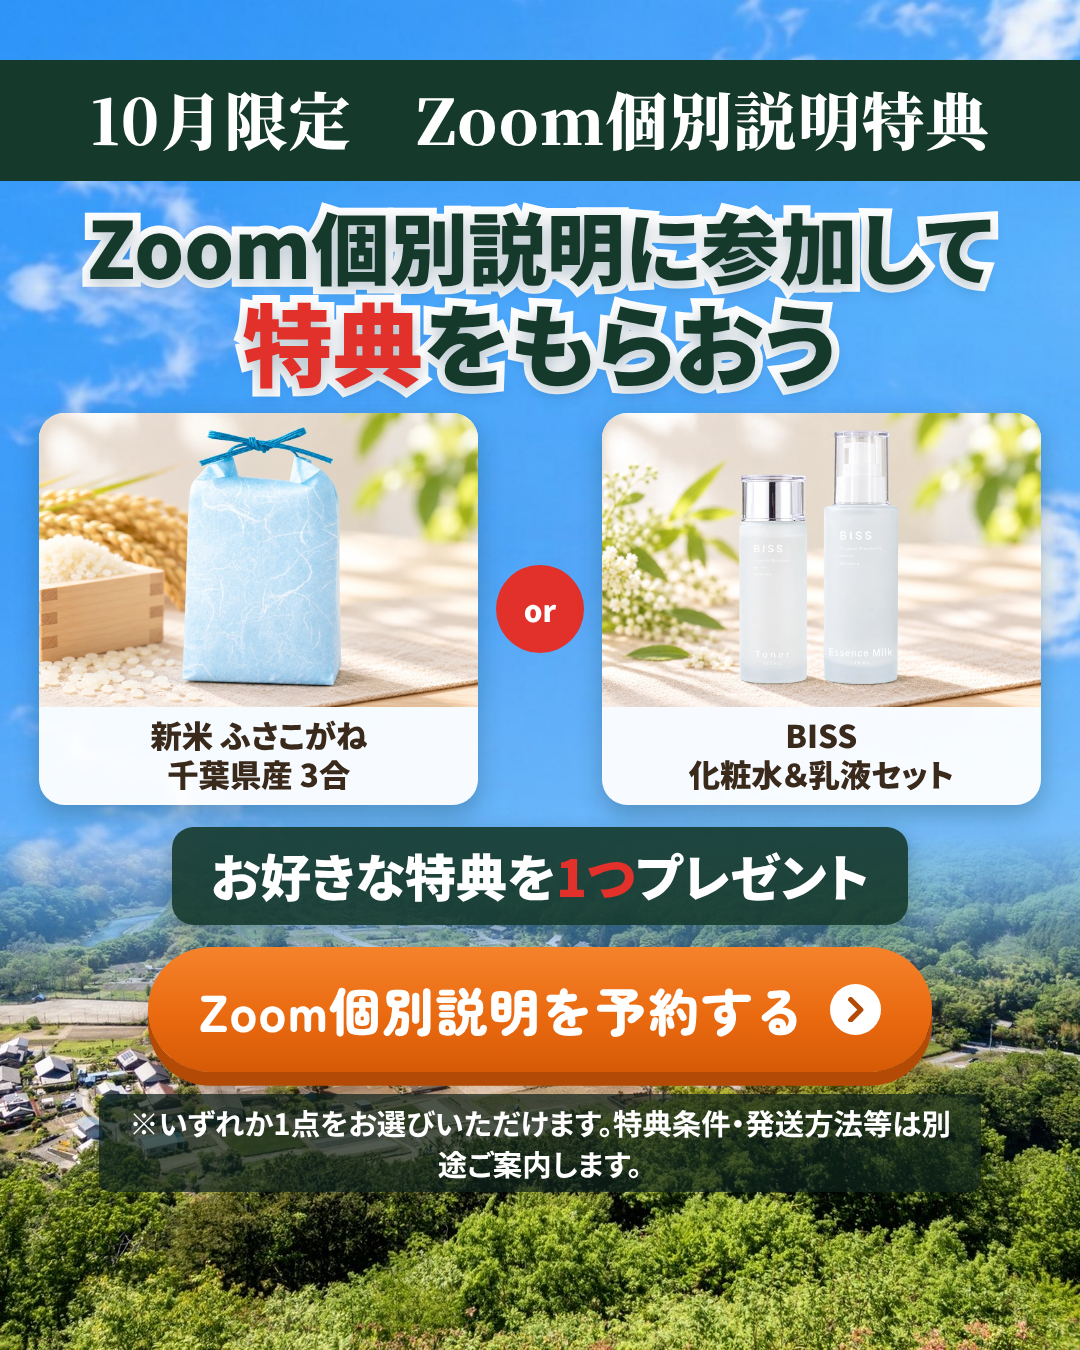
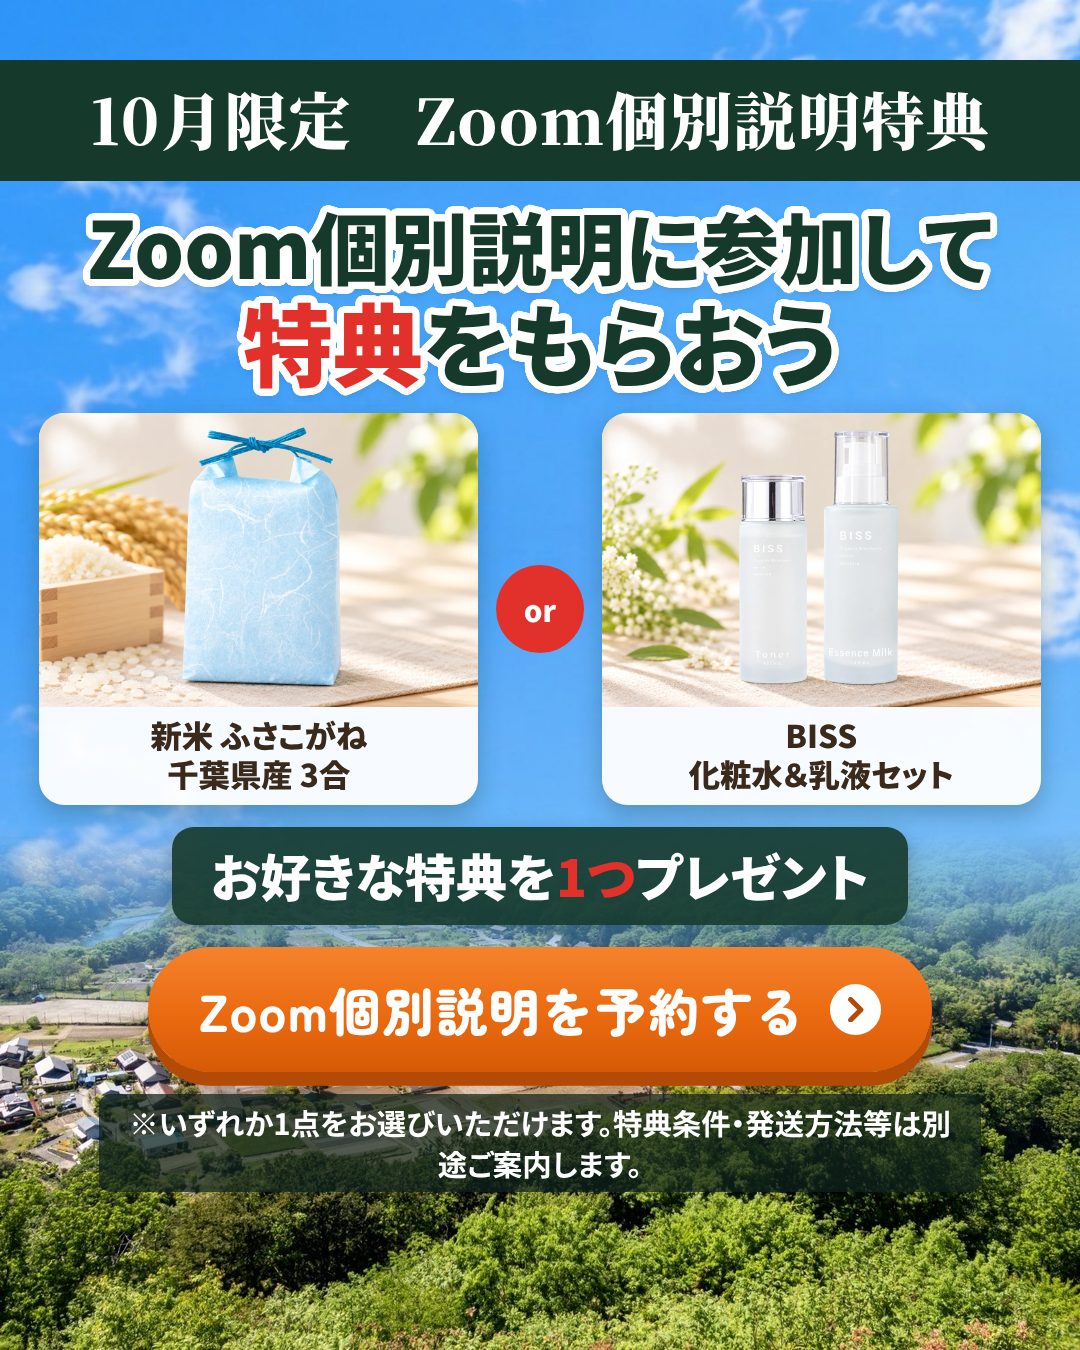
fix: 文字の縁取りを円形に変更（角のカクつき解消）、ドーン/バン等の効果音を追加
Claude-Session: https://claude.ai/code/session_01P3SyrgKkzVaKXZHt8wAsTA

Changed region(s): [[0.0917, 0.1556, 0.9167, 0.3111]]

diff --git a/ads/blueberry-reel/template/ad.css b/ads/blueberry-reel/template/ad.css
@@ -10,7 +10,7 @@
   .chip { display: flex; align-items: center; gap: 12px; font-family: 'Noto Sans JP', sans-serif; font-weight: 900; font-size: 38px; color: var(--navy); white-space: nowrap; padding-bottom: 10px; border-bottom: 5px solid var(--red); }
   .chip .ci { width: 66px; height: 66px; border-radius: 50%; background: var(--navy); display: flex; align-items: center; justify-content: center; flex: 0 0 66px; }
   .chip .ci.g { background: #1f7a3c; }
-  .glow { -webkit-text-stroke: 16px #fff; paint-order: stroke fill; text-shadow: 0 6px 16px rgba(0,50,80,.30); }
+  .glow { text-shadow: 0.075em 0.000em 0 #fff,0.075em 0.007em 0 #fff,0.074em 0.015em 0 #fff,0.072em 0.022em 0 #fff,0.069em 0.029em 0 #fff,0.066em 0.035em 0 #fff,0.062em 0.042em 0 #fff,0.058em 0.048em 0 #fff,0.053em 0.053em 0 #fff,0.048em 0.058em 0 #fff,0.042em 0.062em 0 #fff,0.035em 0.066em 0 #fff,0.029em 0.069em 0 #fff,0.022em 0.072em 0 #fff,0.015em 0.074em 0 #fff,0.007em 0.075em 0 #fff,0.000em 0.075em 0 #fff,-0.007em 0.075em 0 #fff,-0.015em 0.074em 0 #fff,-0.022em 0.072em 0 #fff,-0.029em 0.069em 0 #fff,-0.035em 0.066em 0 #fff,-0.042em 0.062em 0 #fff,-0.048em 0.058em 0 #fff,-0.053em 0.053em 0 #fff,-0.058em 0.048em 0 #fff,-0.062em 0.042em 0 #fff,-0.066em 0.035em 0 #fff,-0.069em 0.029em 0 #fff,-0.072em 0.022em 0 #fff,-0.074em 0.015em 0 #fff,-0.075em 0.007em 0 #fff,-0.075em 0.000em 0 #fff,-0.075em -0.007em 0 #fff,-0.074em -0.015em 0 #fff,-0.072em -0.022em 0 #fff,-0.069em -0.029em 0 #fff,-0.066em -0.035em 0 #fff,-0.062em -0.042em 0 #fff,-0.058em -0.048em 0 #fff,-0.053em -0.053em 0 #fff,-0.048em -0.058em 0 #fff,-0.042em -0.062em 0 #fff,-0.035em -0.066em 0 #fff,-0.029em -0.069em 0 #fff,-0.022em -0.072em 0 #fff,-0.015em -0.074em 0 #fff,-0.007em -0.075em 0 #fff,-0.000em -0.075em 0 #fff,0.007em -0.075em 0 #fff,0.015em -0.074em 0 #fff,0.022em -0.072em 0 #fff,0.029em -0.069em 0 #fff,0.035em -0.066em 0 #fff,0.042em -0.062em 0 #fff,0.048em -0.058em 0 #fff,0.053em -0.053em 0 #fff,0.058em -0.048em 0 #fff,0.062em -0.042em 0 #fff,0.066em -0.035em 0 #fff,0.069em -0.029em 0 #fff,0.072em -0.022em 0 #fff,0.074em -0.015em 0 #fff,0.075em -0.007em 0 #fff,0.041em 0.004em 0 #fff,0.039em 0.012em 0 #fff,0.036em 0.019em 0 #fff,0.032em 0.026em 0 #fff,0.026em 0.032em 0 #fff,0.019em 0.036em 0 #fff,0.012em 0.039em 0 #fff,0.004em 0.041em 0 #fff,-0.004em 0.041em 0 #fff,-0.012em 0.039em 0 #fff,-0.019em 0.036em 0 #fff,-0.026em 0.032em 0 #fff,-0.032em 0.026em 0 #fff,-0.036em 0.019em 0 #fff,-0.039em 0.012em 0 #fff,-0.041em 0.004em 0 #fff,-0.041em -0.004em 0 #fff,-0.039em -0.012em 0 #fff,-0.036em -0.019em 0 #fff,-0.032em -0.026em 0 #fff,-0.026em -0.032em 0 #fff,-0.019em -0.036em 0 #fff,-0.012em -0.039em 0 #fff,-0.004em -0.041em 0 #fff,0.004em -0.041em 0 #fff,0.012em -0.039em 0 #fff,0.019em -0.036em 0 #fff,0.026em -0.032em 0 #fff,0.032em -0.026em 0 #fff,0.036em -0.019em 0 #fff,0.039em -0.012em 0 #fff,0.041em -0.004em 0 #fff, 0 0.05em 0.14em rgba(0,50,80,.35); }
   .big { text-align: center; font-weight: 900; line-height: 1.12; color: var(--dg); font-size: 138px; font-family: 'Noto Sans JP', sans-serif; padding: 0 40px; }
   .big.m { font-size: 112px; } .big.s { font-size: 92px; }
   .big .ln { display: block; white-space: nowrap; }
@@ -37,7 +37,7 @@
   .gcard .gphoto { width: 100%; height: 300px; background-size: cover; margin-bottom: 8px; }
 
   .big.xl { font-size: 190px; line-height: 1.06; }
-  .big.xl.glow { -webkit-text-stroke: 24px #fff; }
+  .big.xl.glow { text-shadow: 0.062em 0.000em 0 #fff,0.062em 0.006em 0 #fff,0.061em 0.012em 0 #fff,0.059em 0.018em 0 #fff,0.057em 0.024em 0 #fff,0.055em 0.029em 0 #fff,0.052em 0.034em 0 #fff,0.048em 0.039em 0 #fff,0.044em 0.044em 0 #fff,0.039em 0.048em 0 #fff,0.034em 0.052em 0 #fff,0.029em 0.055em 0 #fff,0.024em 0.057em 0 #fff,0.018em 0.059em 0 #fff,0.012em 0.061em 0 #fff,0.006em 0.062em 0 #fff,0.000em 0.062em 0 #fff,-0.006em 0.062em 0 #fff,-0.012em 0.061em 0 #fff,-0.018em 0.059em 0 #fff,-0.024em 0.057em 0 #fff,-0.029em 0.055em 0 #fff,-0.034em 0.052em 0 #fff,-0.039em 0.048em 0 #fff,-0.044em 0.044em 0 #fff,-0.048em 0.039em 0 #fff,-0.052em 0.034em 0 #fff,-0.055em 0.029em 0 #fff,-0.057em 0.024em 0 #fff,-0.059em 0.018em 0 #fff,-0.061em 0.012em 0 #fff,-0.062em 0.006em 0 #fff,-0.062em 0.000em 0 #fff,-0.062em -0.006em 0 #fff,-0.061em -0.012em 0 #fff,-0.059em -0.018em 0 #fff,-0.057em -0.024em 0 #fff,-0.055em -0.029em 0 #fff,-0.052em -0.034em 0 #fff,-0.048em -0.039em 0 #fff,-0.044em -0.044em 0 #fff,-0.039em -0.048em 0 #fff,-0.034em -0.052em 0 #fff,-0.029em -0.055em 0 #fff,-0.024em -0.057em 0 #fff,-0.018em -0.059em 0 #fff,-0.012em -0.061em 0 #fff,-0.006em -0.062em 0 #fff,-0.000em -0.062em 0 #fff,0.006em -0.062em 0 #fff,0.012em -0.061em 0 #fff,0.018em -0.059em 0 #fff,0.024em -0.057em 0 #fff,0.029em -0.055em 0 #fff,0.034em -0.052em 0 #fff,0.039em -0.048em 0 #fff,0.044em -0.044em 0 #fff,0.048em -0.039em 0 #fff,0.052em -0.034em 0 #fff,0.055em -0.029em 0 #fff,0.057em -0.024em 0 #fff,0.059em -0.018em 0 #fff,0.061em -0.012em 0 #fff,0.062em -0.006em 0 #fff,0.034em 0.003em 0 #fff,0.033em 0.010em 0 #fff,0.030em 0.016em 0 #fff,0.026em 0.022em 0 #fff,0.022em 0.026em 0 #fff,0.016em 0.030em 0 #fff,0.010em 0.033em 0 #fff,0.003em 0.034em 0 #fff,-0.003em 0.034em 0 #fff,-0.010em 0.033em 0 #fff,-0.016em 0.030em 0 #fff,-0.022em 0.026em 0 #fff,-0.026em 0.022em 0 #fff,-0.030em 0.016em 0 #fff,-0.033em 0.010em 0 #fff,-0.034em 0.003em 0 #fff,-0.034em -0.003em 0 #fff,-0.033em -0.010em 0 #fff,-0.030em -0.016em 0 #fff,-0.026em -0.022em 0 #fff,-0.022em -0.026em 0 #fff,-0.016em -0.030em 0 #fff,-0.010em -0.033em 0 #fff,-0.003em -0.034em 0 #fff,0.003em -0.034em 0 #fff,0.010em -0.033em 0 #fff,0.016em -0.030em 0 #fff,0.022em -0.026em 0 #fff,0.026em -0.022em 0 #fff,0.030em -0.016em 0 #fff,0.033em -0.010em 0 #fff,0.034em -0.003em 0 #fff, 0 0.04em 0.12em rgba(0,50,80,.35); }
   .badge { align-self: center; font-family: 'Noto Serif JP', serif; font-weight: 900; font-size: 128px; line-height: 1.1; color: #b3261e; padding: 14px 64px 22px; border-radius: 28px; border: 10px solid #fff; background: linear-gradient(160deg, #fff1b8 0%, #f6c445 48%, #e0a21f 100%); box-shadow: 0 18px 36px rgba(90,40,0,.35); transform-origin: 50% 60%; white-space: nowrap; }
   .flowimg { display: block; height: auto; align-self: center; filter: drop-shadow(0 18px 22px rgba(10,40,20,.35)); }
   .sflash { position: absolute; inset: 0; background: #fff; opacity: 0; pointer-events: none; }

diff --git a/ads/blueberry-reel/audio.py b/ads/blueberry-reel/audio.py
@@ -45,6 +45,22 @@ def bell(freq, dur, amp=0.3):
     return amp * env * tone
 
 
+def boom(dur=1.1, f0=48.0, drop=105.0, rate=17.0, decay=4.8, amp=0.85):
+    """ドーン：音程が急降下する低音のサイン波（ノイズ成分なし）＋短い『コツ』。"""
+    t = np.arange(int(SR * dur)) / SR
+    f = f0 + drop * np.exp(-rate * t)
+    body = np.sin(2 * np.pi * np.cumsum(f) / SR) * np.exp(-decay * t)
+    knock = np.sin(2 * np.pi * 170 * t) * np.exp(-55 * t) * 0.45
+    return amp * (body + knock) * np.minimum(1, t / 0.002)
+
+
+def pop(freq=660.0, dur=0.28, amp=0.22):
+    """ポン：やわらかい短い音。"""
+    t = np.arange(int(SR * dur)) / SR
+    env = np.minimum(1, t / 0.004) * np.exp(-16 * t)
+    return amp * env * (np.sin(2 * np.pi * freq * t) + 0.25 * np.sin(2 * np.pi * freq * 2 * t))
+
+
 def kick(amp=0.5):
     t = np.arange(int(SR * 0.25)) / SR
     f = 120 * np.exp(-18 * t) + 45
@@ -88,13 +104,29 @@ def main():
         for beat in (0, 2):  # やわらかいキックだけ（ノイズ成分のハットは使わない）
             mix_in(buf, kick(0.22), t0 + beat * BEAT)
 
-    # 効果音は最後の「ピロン」だけ。切り替え音・クリック音は入れない
+    # 効果音。切り替えの「ザー」(ノイズ系)は入れない。すべて音程のある音で作る
     last = cfg['scenes'][-1]
-    buf *= 0.55  # BGMを控えめにして、ピロンが聞き取れるようにする
+    buf *= 0.45  # BGMを控えめにして、効果音を聞き取れるようにする
+    IMPACT = 0.21  # テンプレートの着地タイミング(シーン開始からの秒)
+    first_slam = True
+    for sc in cfg['scenes']:
+        p = sc.get('parts', {})
+        if p.get('slam'):
+            if first_slam:   # 最初の特大演出＝ドーン（深く長い）
+                mix_in(buf, boom(), sc['start'] + IMPACT)
+                first_slam = False
+            else:            # 以降＝バン（短く締まる）
+                mix_in(buf, boom(dur=0.55, f0=70, drop=140, rate=24, decay=9.5, amp=0.7), sc['start'] + IMPACT)
+        elif p.get('badge'):
+            mix_in(buf, pop(880, 0.35, 0.26), sc['start'] + 0.28)
+            mix_in(buf, pop(1175, 0.35, 0.20), sc['start'] + 0.40)
+        elif sc is not last:  # 文字が出るタイミングに、ごく小さなポン
+            mix_in(buf, pop(660, 0.22, 0.16), sc['start'] + 0.22)
     chime_at = last['start'] + 0.45
     for k, (m, amp) in enumerate([(88, 0.34), (95, 0.30)]):  # E6 → B6
         mix_in(buf, bell(note_freq(m), 1.6, amp), chime_at + k * 0.16)
 
+    buf = np.tanh(buf * 1.15)  # ソフトリミッタ（音割れ防止）
     buf = buf[: int(SR * dur)]
     fade = int(SR * 0.6)
     buf[-fade:] *= np.linspace(1, 0, fade)
